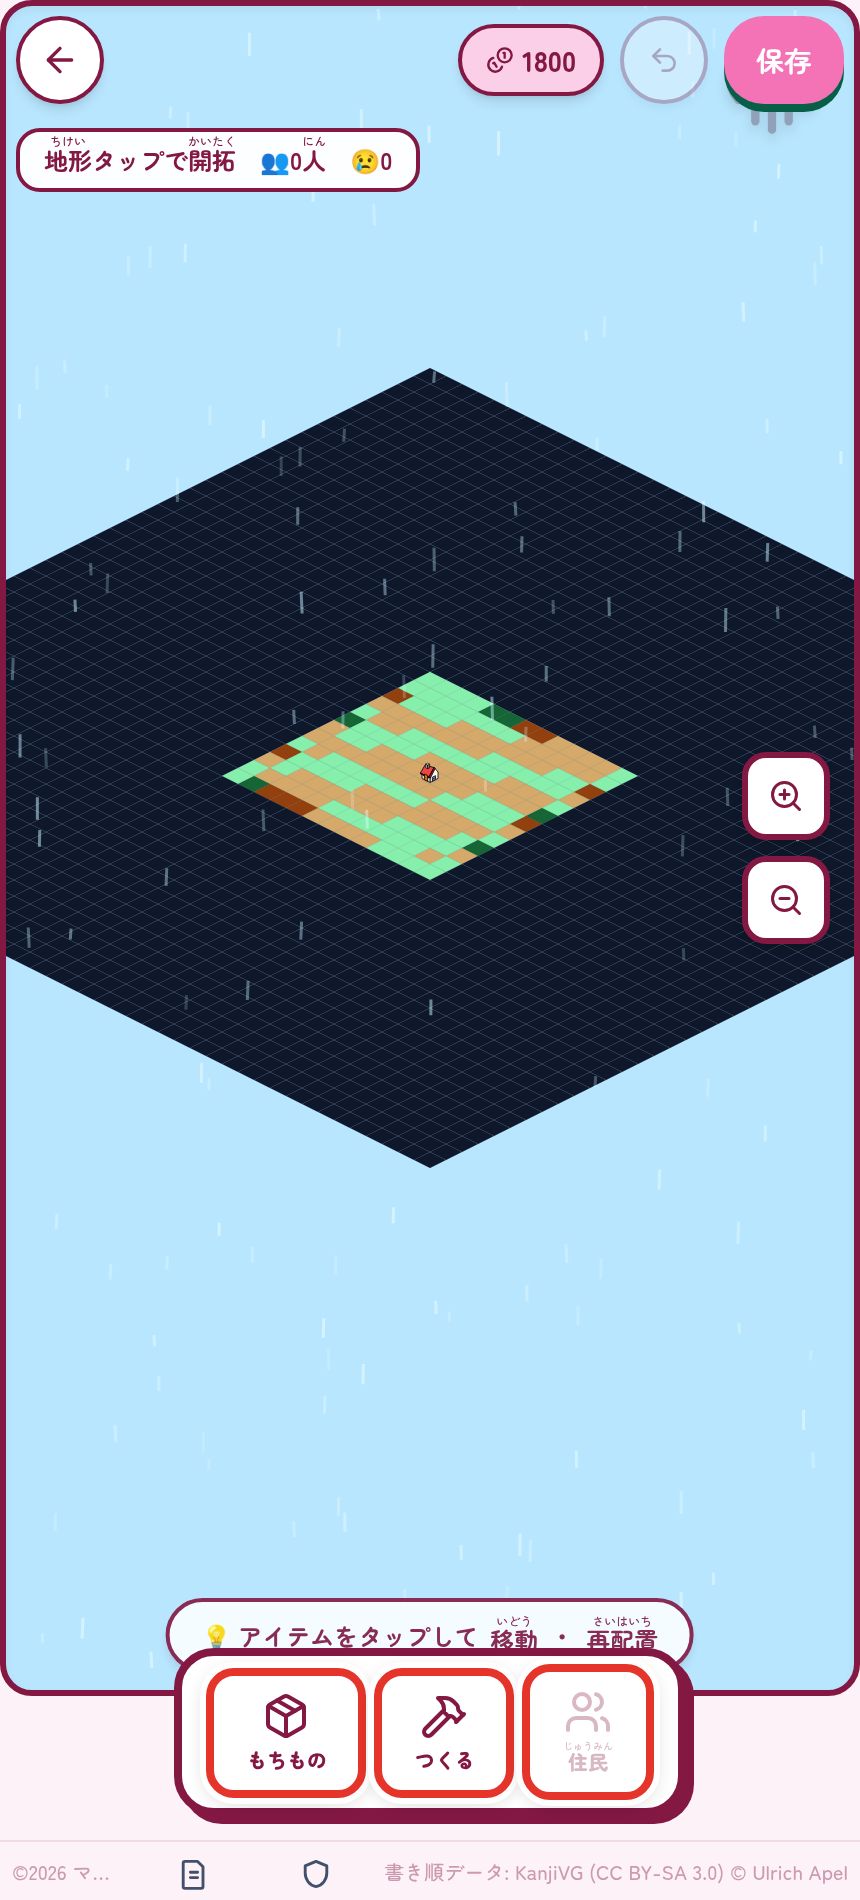
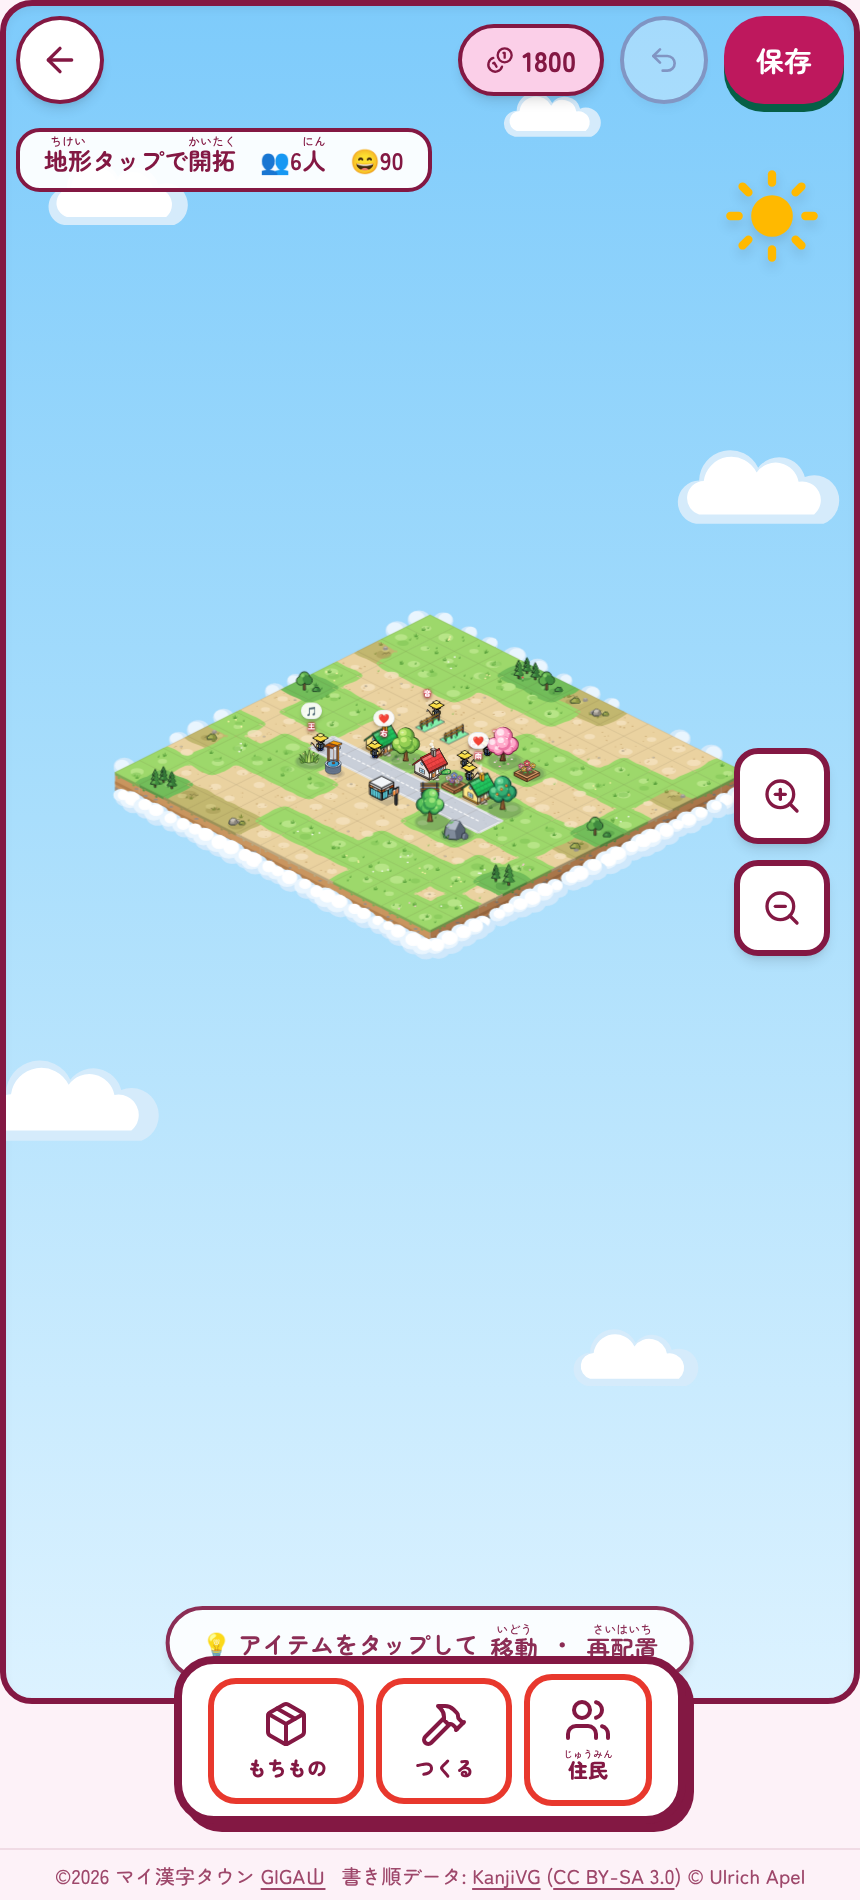
docs: 町づくりの作り直しを、マニュアル・画面写真・README に入れる
- マニュアル: 町の章を今の動きに合わせた（雲の上の島・開拓の費用・置く前の色の目じるし・
  大きな建物の動かし方・指 2 本での拡大縮小・道や水路がつながること・夜のあかり）。
  クラフトは 121 種類になり、タブに「かざり」が入ったことを書いた
- 画面写真: ホーム（01・04）・まちづくり（25）・クラフト（26）を撮りなおした。
  ホームの町が小さく写っている ほかの写真（05・hw-03・lv-02・rg-06 など）は、前の絵のまま
- README: 町づくりの節に、地面の描き方・絵の置き方の表・拡大縮小の作りを足した。レシピの数を
  121 種（加工素材 8・建物 54・強化 9・大型 10・かざり 32・レア 8）に直した。
  「12 のセットボーナス」は、データに定義はあるが どこからも使われていないので、説明から外した

Claude-Session: https://claude.ai/code/session_01UfLrwAMydVZoaxNbW6V8Hq

diff --git a/README.md b/README.md
@@ -101,8 +101,14 @@
 
 ### 町づくり（学習の動機づけ）
 
-- 50×50マスのマップ。字を習得するとその字の**住民**が増え、レベルが上がると探索範囲が広がる。
-- **クラフト**（Lv3で解放）：学習中に集まった素材で85種のレシピから建物・加工素材を作る（加工素材8・建物50・強化9・大型10・レア8。ほかに建物の組み合わせで12のセットボーナス）。
+- 50×50マスのマップ。町は雲の上に浮かぶ島として描き、字を習得するとその字の**住民**が増え、レベルが上がると島（探索範囲）が広がる。
+  - 地面（地形・道・水路・田畑・がけ・影）は 1 マスずつ要素を作らず、5×5 マスのかたまりごとに SVG の文字列を作って 1 枚に並べる
+    （`src/systems/town-ground.js`・`town-ground-paint.js`・`src/components/town/TerrainLayer.jsx`）。道・水路・田んぼは、となりとつながる形になる。
+  - 建物の絵は 1 枚ずつ足もとの位置がちがうので、置き方の表（`src/data/town-item-fit.js`）で「絵の足もとのまん中」を置いたマスのまん中に合わせる。
+    大きさ（`size`）を持つアイテムを足したら、この表にも 1 行足す（`test/town-item-fit.test.js` が見る）。
+  - 木・花・岩・「小さな家」は、絵を文書に 1 回だけ置いて `<use>` で呼びだす（`src/data/iso-svg/nature-art.js`・`house-art.js`）。
+  - 拡大縮小は画面の 1 点を基点にする（ボタン・ピンチ・ホイール。`zoomAround`）。置く前に、足もとの範囲と置けるかどうかを色で出す。
+- **クラフト**（Lv3で解放）：学習中に集まった素材で121種のレシピから建物・加工素材を作る（加工素材8・建物54・強化9・大型10・かざり32・レア8）。
 - **ガチャ**：100コインで1回、10連もある。建物アイテムが手に入る。
 - **住民の満足度**が獲得EXPの倍率になる（0.7〜1.3倍）。建物の種類・自然物・連続日数で上がり、過密や雑草で下がる。
 - **デイリーミッション／ログインボーナス／天気**あり。
